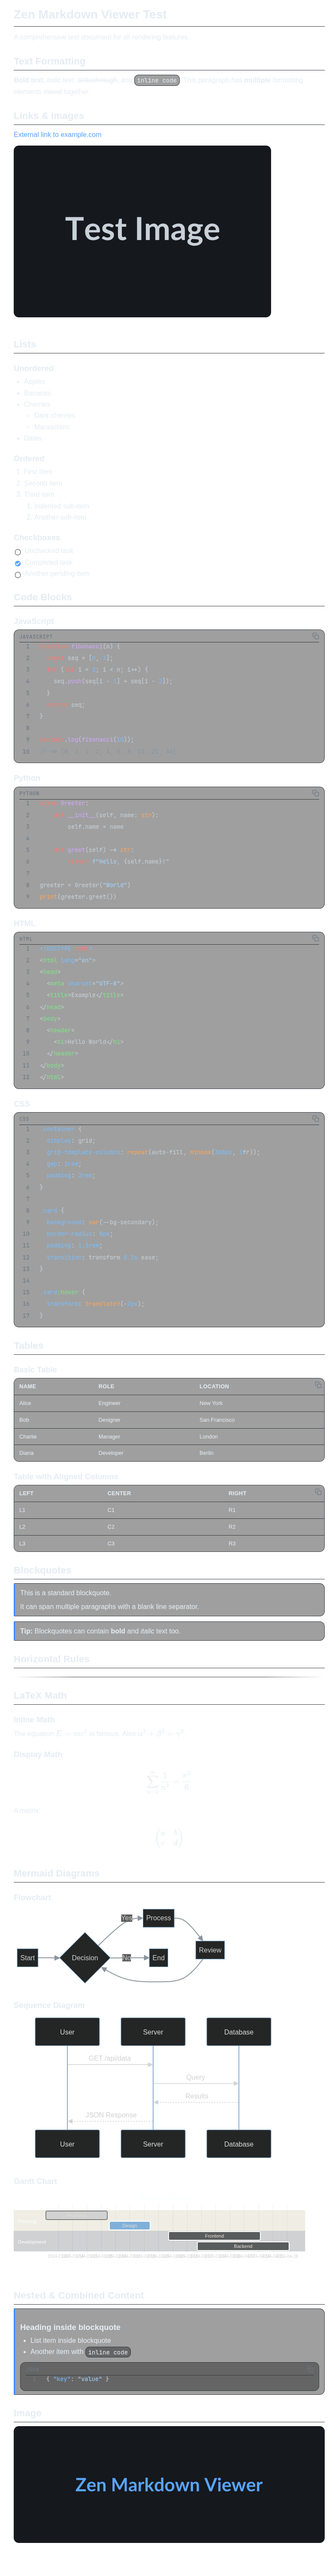
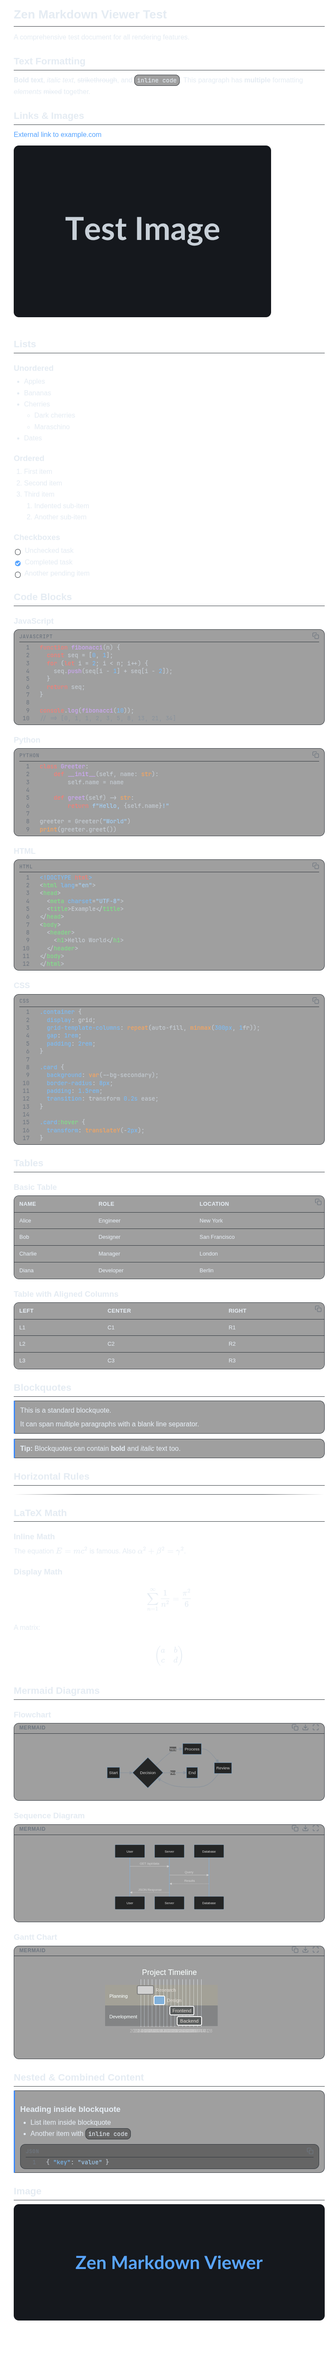
Mermaid: header bar with copy/download/maximize, centered layout
- Mermaid diagrams now wrapped in .mermaid-wrap with border/bg matching
  code blocks, plus .mermaid-inner with flex centering
- Header bar (reuses .code-header pattern): MERMAID label left,
  three icon buttons right (Copy source, Download SVG, Maximize)
- Copy button copies raw mermaid source to clipboard
- Download SVG serializes the rendered SVG to a .svg file download
- Maximize opens a fullscreen overlay with the SVG, supports:
  - Mouse wheel zoom (0.2x - 5x)
  - Click-drag pan
  - Esc or click outside/close button to exit
- mkIconBtn helper shared by all three button types

diff --git a/viewer.html b/viewer.html
@@ -309,6 +309,63 @@ img { max-width: 100%; height: auto; border-radius: 12px; margin-bottom: 0.75em;
 /* ===== Mermaid ===== */
 .mermaid { background: transparent !important; }
 
+.mermaid-wrap {
+  background: rgba(6,6,6,0.4);
+  border: 1px solid var(--code-border);
+  border-radius: 12px;
+  margin-bottom: 0.75em;
+  overflow: hidden;
+}
+.mermaid-wrap .code-header { padding-left: 0.75rem; padding-right: 0.75rem; }
+.mermaid-inner {
+  display: flex;
+  justify-content: center;
+  padding: 1rem;
+  overflow-x: auto;
+}
+
+/* Maximize overlay */
+#mermaid-overlay {
+  position: fixed;
+  inset: 0;
+  z-index: 300;
+  background: rgba(6,6,6,0.9);
+  display: none;
+  align-items: center;
+  justify-content: center;
+  cursor: grab;
+}
+#mermaid-overlay.open { display: flex; }
+#mermaid-overlay.grabbing { cursor: grabbing; }
+#mermaid-overlay .m-scale {
+  transition: transform 0.05s linear;
+}
+#mermaid-overlay .m-close {
+  position: fixed;
+  top: 1rem;
+  right: 1rem;
+  background: rgba(255,255,255,0.1);
+  border: none;
+  color: #fff;
+  font-size: 1.5rem;
+  cursor: pointer;
+  padding: 0.5rem 0.75rem;
+  border-radius: 8px;
+  z-index: 301;
+  line-height: 1;
+}
+#mermaid-overlay .m-close:hover { background: rgba(255,255,255,0.2); }
+#mermaid-overlay .m-zoom-hint {
+  position: fixed;
+  bottom: 1rem;
+  left: 50%;
+  transform: translateX(-50%);
+  color: rgba(255,255,255,0.5);
+  font-size: 0.8rem;
+  z-index: 301;
+  pointer-events: none;
+}
+
 /* ===== TOC Overlay ===== */
 #toc-overlay {
   position: fixed;
@@ -514,6 +571,12 @@ img { max-width: 100%; height: auto; border-radius: 12px; margin-bottom: 0.75em;
     </div>
     <div id="help-footer"><button id="help-footer-btn">Close</button></div>
   </div>
+</div>
+
+<div id="mermaid-overlay">
+  <button class="m-close" id="m-close-btn">&times;</button>
+  <div class="m-scale"></div>
+  <div class="m-zoom-hint">Scroll to zoom &middot; Drag to pan</div>
 </div>
 
 <div id="status"></div>
@@ -780,6 +843,135 @@ function render() {
     } catch(e) { /* fallback */ }
   }
 
+  /* Mermaid header bar + controls */
+  document.querySelectorAll('#content .mermaid').forEach(m => {
+    const wrap = m.closest('.mermaid-wrap');
+    if (wrap) return; /* already processed */
+
+    const container = document.createElement('div');
+    container.className = 'mermaid-wrap';
+    m.parentElement.insertBefore(container, m);
+
+    const inner = document.createElement('div');
+    inner.className = 'mermaid-inner';
+    container.appendChild(inner);
+
+    inner.appendChild(m);
+
+    const source = m.textContent;
+
+    /* header */
+    const header = document.createElement('div');
+    header.className = 'code-header';
+
+    const lang = document.createElement('span');
+    lang.className = 'lang';
+    lang.textContent = 'MERMAID';
+    header.appendChild(lang);
+
+    const btnGroup = document.createElement('div');
+    btnGroup.style.cssText = 'display:flex;gap:0.5rem;align-items:center';
+
+    /* copy */
+    const copyBtn = mkIconBtn('copy', source, 'Copy source');
+    btnGroup.appendChild(copyBtn);
+
+    /* download SVG */
+    const svgEl = m.querySelector('svg');
+    const dlBtn = mkIconBtn('download', svgEl, 'Download SVG');
+    btnGroup.appendChild(dlBtn);
+
+    /* maximize */
+    const maxBtn = mkIconBtn('maximize', { el: svgEl, source }, 'Maximize');
+    btnGroup.appendChild(maxBtn);
+
+    header.appendChild(btnGroup);
+    container.insertBefore(header, container.firstChild);
+  });
+
+  function mkIconBtn(type, data, title) {
+    const b = document.createElement('button');
+    b.className = 'copy-btn';
+    b.title = title;
+    const icons = {
+      copy: '<svg width="16" height="16" viewBox="0 0 24 24" fill="none" stroke="currentColor" stroke-width="2" stroke-linecap="round" stroke-linejoin="round"><rect x="9" y="9" width="13" height="13" rx="2" ry="2"/><path d="M5 15H4a2 2 0 0 1-2-2V4a2 2 0 0 1 2-2h9a2 2 0 0 1 2 2v1"/></svg>',
+      check: '<svg width="16" height="16" viewBox="0 0 24 24" fill="none" stroke="currentColor" stroke-width="2" stroke-linecap="round" stroke-linejoin="round"><polyline points="20 6 9 17 4 12"/></svg>',
+      download: '<svg width="16" height="16" viewBox="0 0 24 24" fill="none" stroke="currentColor" stroke-width="2" stroke-linecap="round" stroke-linejoin="round"><path d="M21 15v4a2 2 0 0 1-2 2H5a2 2 0 0 1-2-2v-4"/><polyline points="7 10 12 15 17 10"/><line x1="12" y1="15" x2="12" y2="3"/></svg>',
+      maximize: '<svg width="16" height="16" viewBox="0 0 24 24" fill="none" stroke="currentColor" stroke-width="2" stroke-linecap="round" stroke-linejoin="round"><path d="M8 3H5a2 2 0 0 0-2 2v3m18 0V5a2 2 0 0 0-2-2h-3m0 18h3a2 2 0 0 0 2-2v-3M3 16v3a2 2 0 0 0 2 2h3"/></svg>',
+    };
+    b.innerHTML = icons[type] || '';
+
+    b.addEventListener('click', () => {
+      if (type === 'copy') {
+        const text = typeof data === 'string' ? data : '';
+        navigator.clipboard.writeText(text).then(() => {
+          b.innerHTML = icons.check;
+          b.classList.add('copied');
+          setTimeout(() => { b.innerHTML = icons[type]; b.classList.remove('copied'); }, 1500);
+        }).catch(() => {});
+      } else if (type === 'download') {
+        if (!data) return;
+        const svgData = data.outerHTML || data;
+        const blob = new Blob(['<?xml version="1.0" encoding="UTF-8"?>\n' + svgData], { type: 'image/svg+xml' });
+        const url = URL.createObjectURL(blob);
+        const a = document.createElement('a');
+        a.href = url;
+        a.download = 'diagram.svg';
+        a.click();
+        URL.revokeObjectURL(url);
+        b.innerHTML = icons.check;
+        b.classList.add('copied');
+        setTimeout(() => { b.innerHTML = icons[type]; b.classList.remove('copied'); }, 1500);
+      } else if (type === 'maximize') {
+        openMaximize(data);
+      }
+    });
+    return b;
+  }
+
+  function openMaximize(data) {
+    const svgStr = data.el ? data.el.outerHTML : data.source;
+    const ov = document.getElementById('mermaid-overlay');
+    const content = ov.querySelector('.m-scale');
+    content.innerHTML = svgStr;
+    /* reattach svg so scripts/defs work */
+    const svg = content.querySelector('svg');
+    if (svg) {
+      svg.style.maxWidth = '90vw';
+      svg.style.maxHeight = '90vh';
+      svg.style.width = 'auto';
+      svg.style.height = 'auto';
+    }
+
+    let panX = 0, panY = 0, zoom = 1;
+    let isPan = false, startX, startY;
+
+    function update() {
+      content.style.transform = 'translate(' + panX + 'px,' + panY + 'px) scale(' + zoom + ')';
+    }
+    update();
+
+    ov.classList.add('open');
+
+    ov.onwheel = e => {
+      e.preventDefault();
+      const dir = e.deltaY > 0 ? -0.1 : 0.1;
+      zoom = Math.max(0.2, Math.min(5, zoom + dir));
+      update();
+    };
+    ov.onmousedown = e => {
+      isPan = true; startX = e.clientX - panX; startY = e.clientY - panY;
+      ov.classList.add('grabbing');
+    };
+    ov.onmousemove = e => {
+      if (!isPan) return;
+      panX = e.clientX - startX; panY = e.clientY - startY;
+      update();
+    };
+    ov.onmouseup = () => { isPan = false; ov.classList.remove('grabbing'); };
+    ov.onmouseleave = () => { isPan = false; ov.classList.remove('grabbing'); };
+  }
+
   /* Wrap tables for horizontal scroll, add copy button */
   document.querySelectorAll('#content table').forEach(tbl => {
     if (!tbl.parentElement.classList.contains('table-wrap')) {
@@ -940,6 +1132,8 @@ document.addEventListener('keydown', e => {
   if (e.target.tagName === 'INPUT' || e.target.tagName === 'TEXTAREA') return;
 
   if (e.key === 'Escape') {
+    const mo = document.getElementById('mermaid-overlay');
+    if (mo.classList.contains('open')) { mo.classList.remove('open'); e.preventDefault(); return; }
     if (state.tocOpen) { closeToc(); e.preventDefault(); return; }
     toggleHelp();
     e.preventDefault();
@@ -1011,6 +1205,16 @@ function init() {
   /* Help overlay close buttons */
   document.getElementById('help-close-btn').addEventListener('click', closeHelp);
   document.getElementById('help-footer-btn').addEventListener('click', closeHelp);
+
+  /* Maximize overlay close */
+  document.getElementById('m-close-btn').addEventListener('click', () => {
+    document.getElementById('mermaid-overlay').classList.remove('open');
+  });
+  document.getElementById('mermaid-overlay').addEventListener('click', e => {
+    if (e.target === e.currentTarget) {
+      document.getElementById('mermaid-overlay').classList.remove('open');
+    }
+  });
 }
 
 if (document.readyState === 'loading') {
